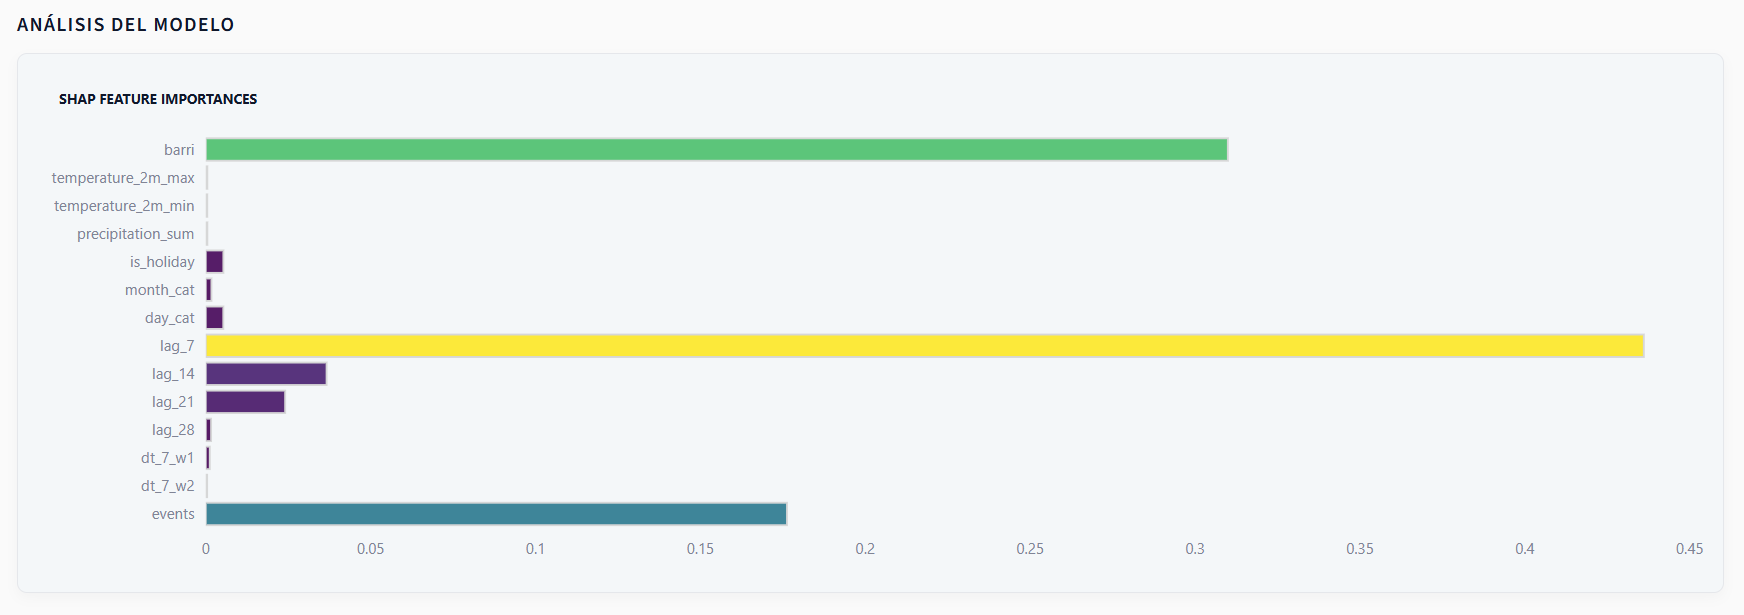
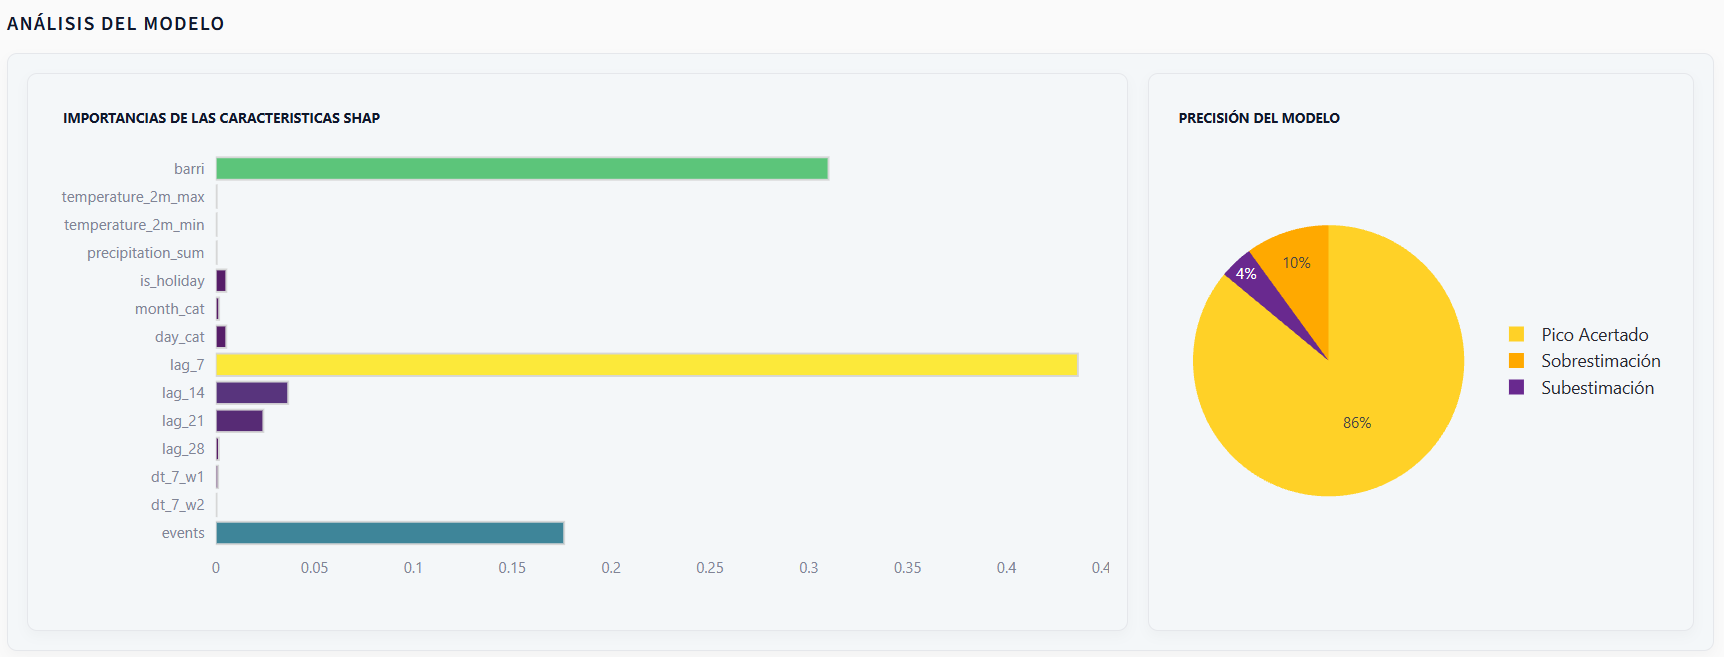
Images

diff --git a/src/dashboard.py b/src/dashboard.py
@@ -565,7 +565,6 @@ def plot_barri_details(df_full: pd.DataFrame, df_events: pd.DataFrame, df_filter
     with c2: 
         wrap_chart_in_card(fig_mon, "EVOLUCIÓN MENSUAL DE TRÁFICO") 
     
-    
     with c3: 
         wrap_chart_in_card(fig_cat, "IMPACTO MEDIO DE EVENTOS")
 
@@ -581,7 +580,7 @@ def plot_barri_details(df_full: pd.DataFrame, df_events: pd.DataFrame, df_filter
         wrap_chart_in_card(fig_superf, "INTENSIDAD / SUPERFICIE (TODOS LOS BARRIOS)")
         
 def plot_model_analysis(model: Multiregressor) -> None:
-    """Plots feature importances"""
+    """Plots feature importances and model details"""
     import plotly.graph_objects as go
     import plotly.express as px
     
@@ -619,25 +618,8 @@ def plot_model_analysis(model: Multiregressor) -> None:
         wrap_chart_in_card(fig_importances, "IMPORTANCIAS DE LAS CARACTERISTICAS SHAP", height=400)
     with c2:
         fig = px.pie(values = [float(accuracy), float(under_estimated), float(over_estimated)],
-            names = ['Pico Acertado', 'Subestimación', 'Sobrestimación' ], color = ['Pico Acertado', 'Subestimación', 'Sobrestimación' ] ,color_discrete_map= {"Pico Acertado" : "#ffd127", "Subestimación":"#69298f", "Sobrestimación":"#ffa900"})
-        fig.update_layout(
-        paper_bgcolor=SECONDARY_BACKGROUND, 
-        plot_bgcolor=SECONDARY_BACKGROUND,
-        title=dict(text='PRECISIÓN DEL MODELO', font=TITLE_FONT, x=0.01),
-        height=400,
-        autosize=True,
-        template='plotly_white', 
-        font=dict(family='Segoe UI, sans-serif'),
-        margin=dict(t=50, b=20, l=20, r=200), 
-        legend=dict(
-            x=1.75, 
-            y=0.5,
-            xanchor='right',
-            yanchor='middle',
-            font=dict(size=14) 
-        )
-        )
-        st.plotly_chart(fig, width="stretch", config={'displayModeBar': False})
+            names = ['Correct', 'Under', 'Over'], color = ['Correct', 'Under','Over' ] ,color_discrete_map= {"Correct" : "#ffd127", "Under":"#69298f", "Over":"#ffa900"})
+        wrap_chart_in_card(fig, title_text='PRECISIÓN DEL MODELO' ,height=400)
 
 @st.cache_data
 def plot_stats(df: pd.DataFrame) -> None:

diff --git a/README.md b/README.md
@@ -201,7 +201,7 @@ Una vez seleccionado un barrio en el mapa, obtendremos una serie de gráficas qu
 ![plot](./media/analysis.png)
 
 ### 3.6. Análisis del Modelo
-Encontraremos un análisis detallado del modelo, para tener una visión más general de cuáles son los parámetros que afectan en mayor medida a la intensidad de la movilidad en Barcelona. Además, podremos ver el porcentaje de precisión de picos acertados del modelo, el porcentaje de picos subestimados y el porcentaje de picos sobrestimado.
+Encontraremos un análisis detallado del modelo, para tener una visión más general de cuáles son los parámetros que afectan en mayor medida a la intensidad de la movilidad en Barcelona. Además, podremos ver el porcentaje de precisión de picos acertados del modelo, el porcentaje de picos subestimados y el porcentaje de picos sobrestimado. 
   
 ![plot](./media/model_analysis.png)
 
